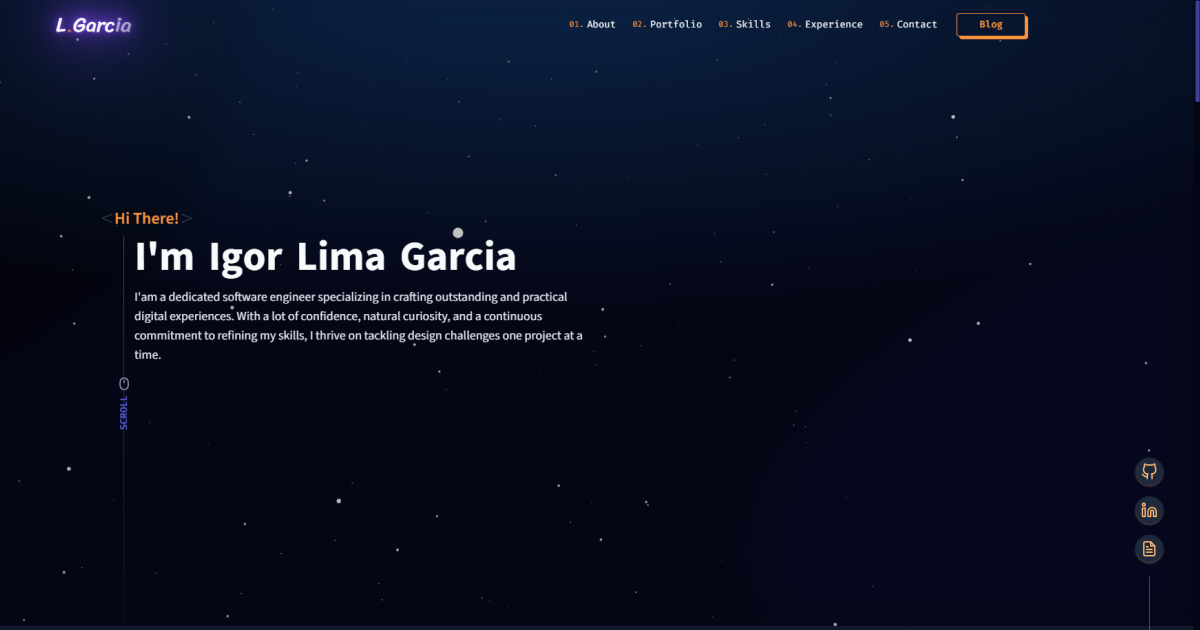
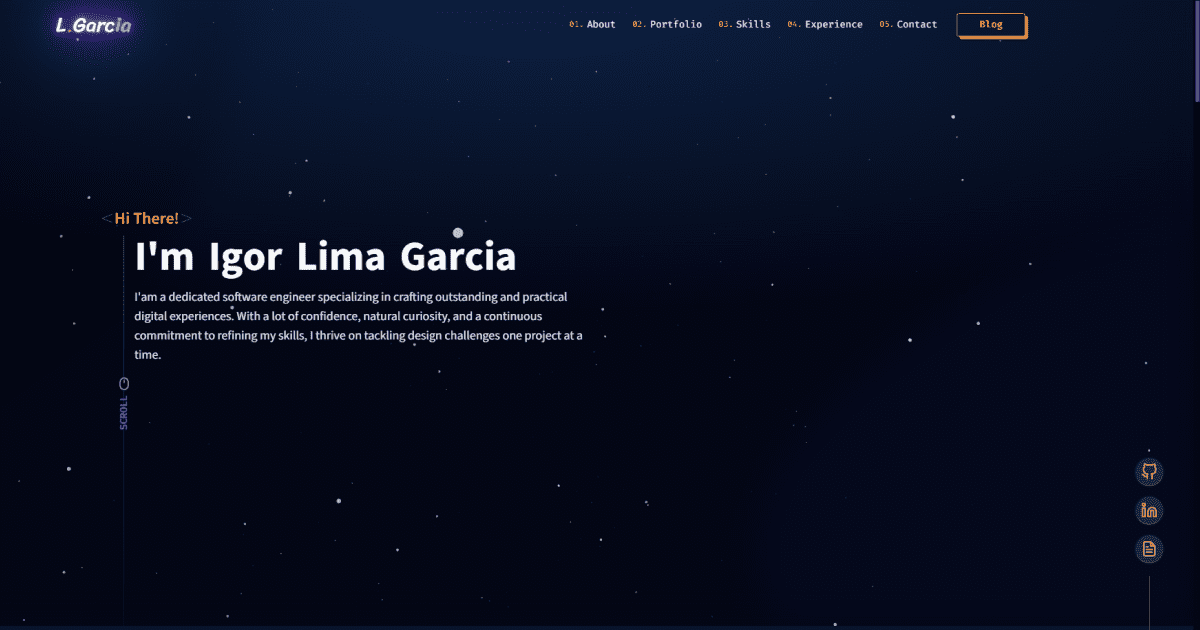
new bg grid

diff --git a/src/app/(client)/layout.tsx b/src/app/(client)/layout.tsx
@@ -2,11 +2,12 @@ import type { Metadata } from "next";
 import { Source_Sans_3, Fira_Code, Sriracha } from "next/font/google";
 
 import Header from "../../components/Header/Header";
+// import Image from "next/image";
 
 import "../globals.css";
 
 export const metadata: Metadata = {
-  metadataBase: new URL("https://www.ilgarcia.com"), 
+  metadataBase: new URL("https://www.ilgarcia.com"),
   title: "ilgarcia",
   description:
     "Hi, my name is Igor Lima Garcia i'm a software engineer specializing in building exceptional and practical digital experiences and this is my portfolio",
@@ -57,9 +58,7 @@ export default function RootLayout({
       lang="en"
       className={`${source.className} ${firaCode.variable} ${sriracha.variable}`}
     >
-      <body className="relative">
-        {/* Transform in image */}
-        <div className="absolute top-0 -left-2 w-full h-full bg-[linear-gradient(to_right,_#34d39908_1px,_transparent_1px),linear-gradient(#34d39908_1px,_transparent_1px)] -z-50 bg-[length:100px_100px]" />
+      <body className="relative bg-[url('/bgGrid.svg')]">
         <Header />
         {children}
       </body>

diff --git a/src/components/Header/NeonBorder.tsx b/src/components/Header/NeonBorder.tsx
@@ -1,13 +1,27 @@
+"use client";
+
+import { motion as m, Variants } from "framer-motion";
+
+const neonBorder: Variants = {
+  open: { opacity: 1, transition: { duration: 0.8 } },
+  closed: { opacity: 0, transition: { duration: 0.8 } },
+};
+
 function NeonBorder() {
   return (
-    <div className="relative -z-10">
+    <m.div
+      initial="closed"
+      animate="open"
+      variants={neonBorder}
+      className="relative -z-10"
+    >
       <div className="absolute bottom-0 right-4 mt-[2px] flex h-8 items-end overflow-hidden">
         <div className="flex -mb-px h-[2px] w-screen -scale-x-100">
           <div className="w-full flex-none blur-sm [background-image:linear-gradient(90deg,rgba(56,189,248,0)_0%,#0EA5E9_32.29%,rgba(236,72,153,0.3)_67.19%,rgba(236,72,153,0)_100%)]" />
           <div className="-ml-[100%] w-full flex-none blur-[1px] [background-image:linear-gradient(90deg,rgba(56,189,248,0)_0%,#0EA5E9_32.29%,rgba(236,72,153,0.3)_67.19%,rgba(236,72,153,0)_100%)]" />
         </div>
       </div>
-    </div>
+    </m.div>
   );
 }
 

diff --git a/src/app/globals.css b/src/app/globals.css
@@ -83,9 +83,9 @@
     @apply outline-none bg-slate-900/80 rounded-sm border-b px-6 py-3 text-gray-500 placeholder-gray-500 transition-all  border-gray-500  focus:text-indigo-500/60 focus:border-indigo-500 hover:border-indigo-500;
   }
 
-  .tabTrigger {
+  /* .tabTrigger {
     @apply text-slate-200 [&_.divLine]:data-[state=active]:opacity-50 [&_.divLine]:data-[state=active]:scale-110 [&_.divLine]:data-[state=inactive]:opacity-0 [&_.divLine]:data-[state=inactive]:scale-0 [&_.tabText]:data-[state=active]:hover:animate-wiggle [&_.tabText]:data-[state=inactive]:text-slate-400 [&_.tabText]:data-[state=inactive]:hover:text-slate-200 [&_.tag]:data-[state=active]:translate-x-2 [&_.tag]:data-[state=inactive]:translate-x-0 [&_.tag]:data-[state=inactive]:hover:translate-x-2 [&_.tagSlash]:data-[state=active]:opacity-0 [&_.tagSlash]:data-[state=inactive]:opacity-100 [&_.tagSlash]:data-[state=inactive]:hover:opacity-0
-  }
+  } */
 }
 
 @layer utilities {

diff --git a/src/components/Header/Navbar.tsx b/src/components/Header/Navbar.tsx
@@ -10,6 +10,9 @@ const variants: Variants = {
   open: {
     transition: {
       staggerChildren: 0.1,
+      type: "spring",
+      damping: 500,
+      stiffness: 50,
     },
   },
   closed: {
@@ -52,12 +55,14 @@ export function Navbar() {
       animate="open"
       className="hidden lg:flex flex-row justify-center items-center font-fira text-sm space-x-7 z-50"
     >
-      <m.ul
-        variants={variants}
-        className="flex items-center space-x-6"
-      >
+      <m.ul variants={variants} className="flex items-center space-x-6">
         {navLinks.map((item) => (
-          <m.li key={item.id} variants={itemVariants} className="nav-link">
+          <m.li
+            key={item.id}
+            variants={itemVariants}
+            whileTap={{ scale: 0.95 }}
+            className="nav-link"
+          >
             <Link href={`/#${item.id}`}>{item.title}</Link>
           </m.li>
         ))}

diff --git a/src/components/Hero/HeroCanvas.tsx b/src/components/Hero/HeroCanvas.tsx
@@ -1,20 +1,19 @@
 "use client";
 
+import { Suspense } from "react";
+
 import { Canvas } from "@react-three/fiber";
 import Particles from "./Particles";
 
-export default function HeroCanvas({ ...props }) {
+export default function HeroCanvas() {
   return (
     <div className="absolute top-0 left-0  w-full h-full -z-20 animate-surge">
-      <Canvas
-        linear
-        dpr={[1, 2]}
-        camera={{ fov: 100, position: [0, 0, 30] }}
-        {...props}
-      >
-        <fog attach="fog" args={["#1e1b4b", 0, 60]} />
-        <ambientLight intensity={0.8} />
-        <Particles count={1000} />
+      <Canvas dpr={[1, 2]} camera={{ fov: 100, position: [0, 0, 30] }}>
+        <Suspense fallback={null}>
+          <fog attach="fog" args={["#1e1b4b", 0, 60]} />
+          <ambientLight intensity={0.8} />
+          <Particles count={1000} />
+        </Suspense>
       </Canvas>
     </div>
   );

diff --git a/src/components/Header/Header.tsx b/src/components/Header/Header.tsx
@@ -1,5 +1,3 @@
-// "use client";
-
 import { LogoNeon } from "../Ui/Logo";
 import { Navbar } from "./Navbar";
 
